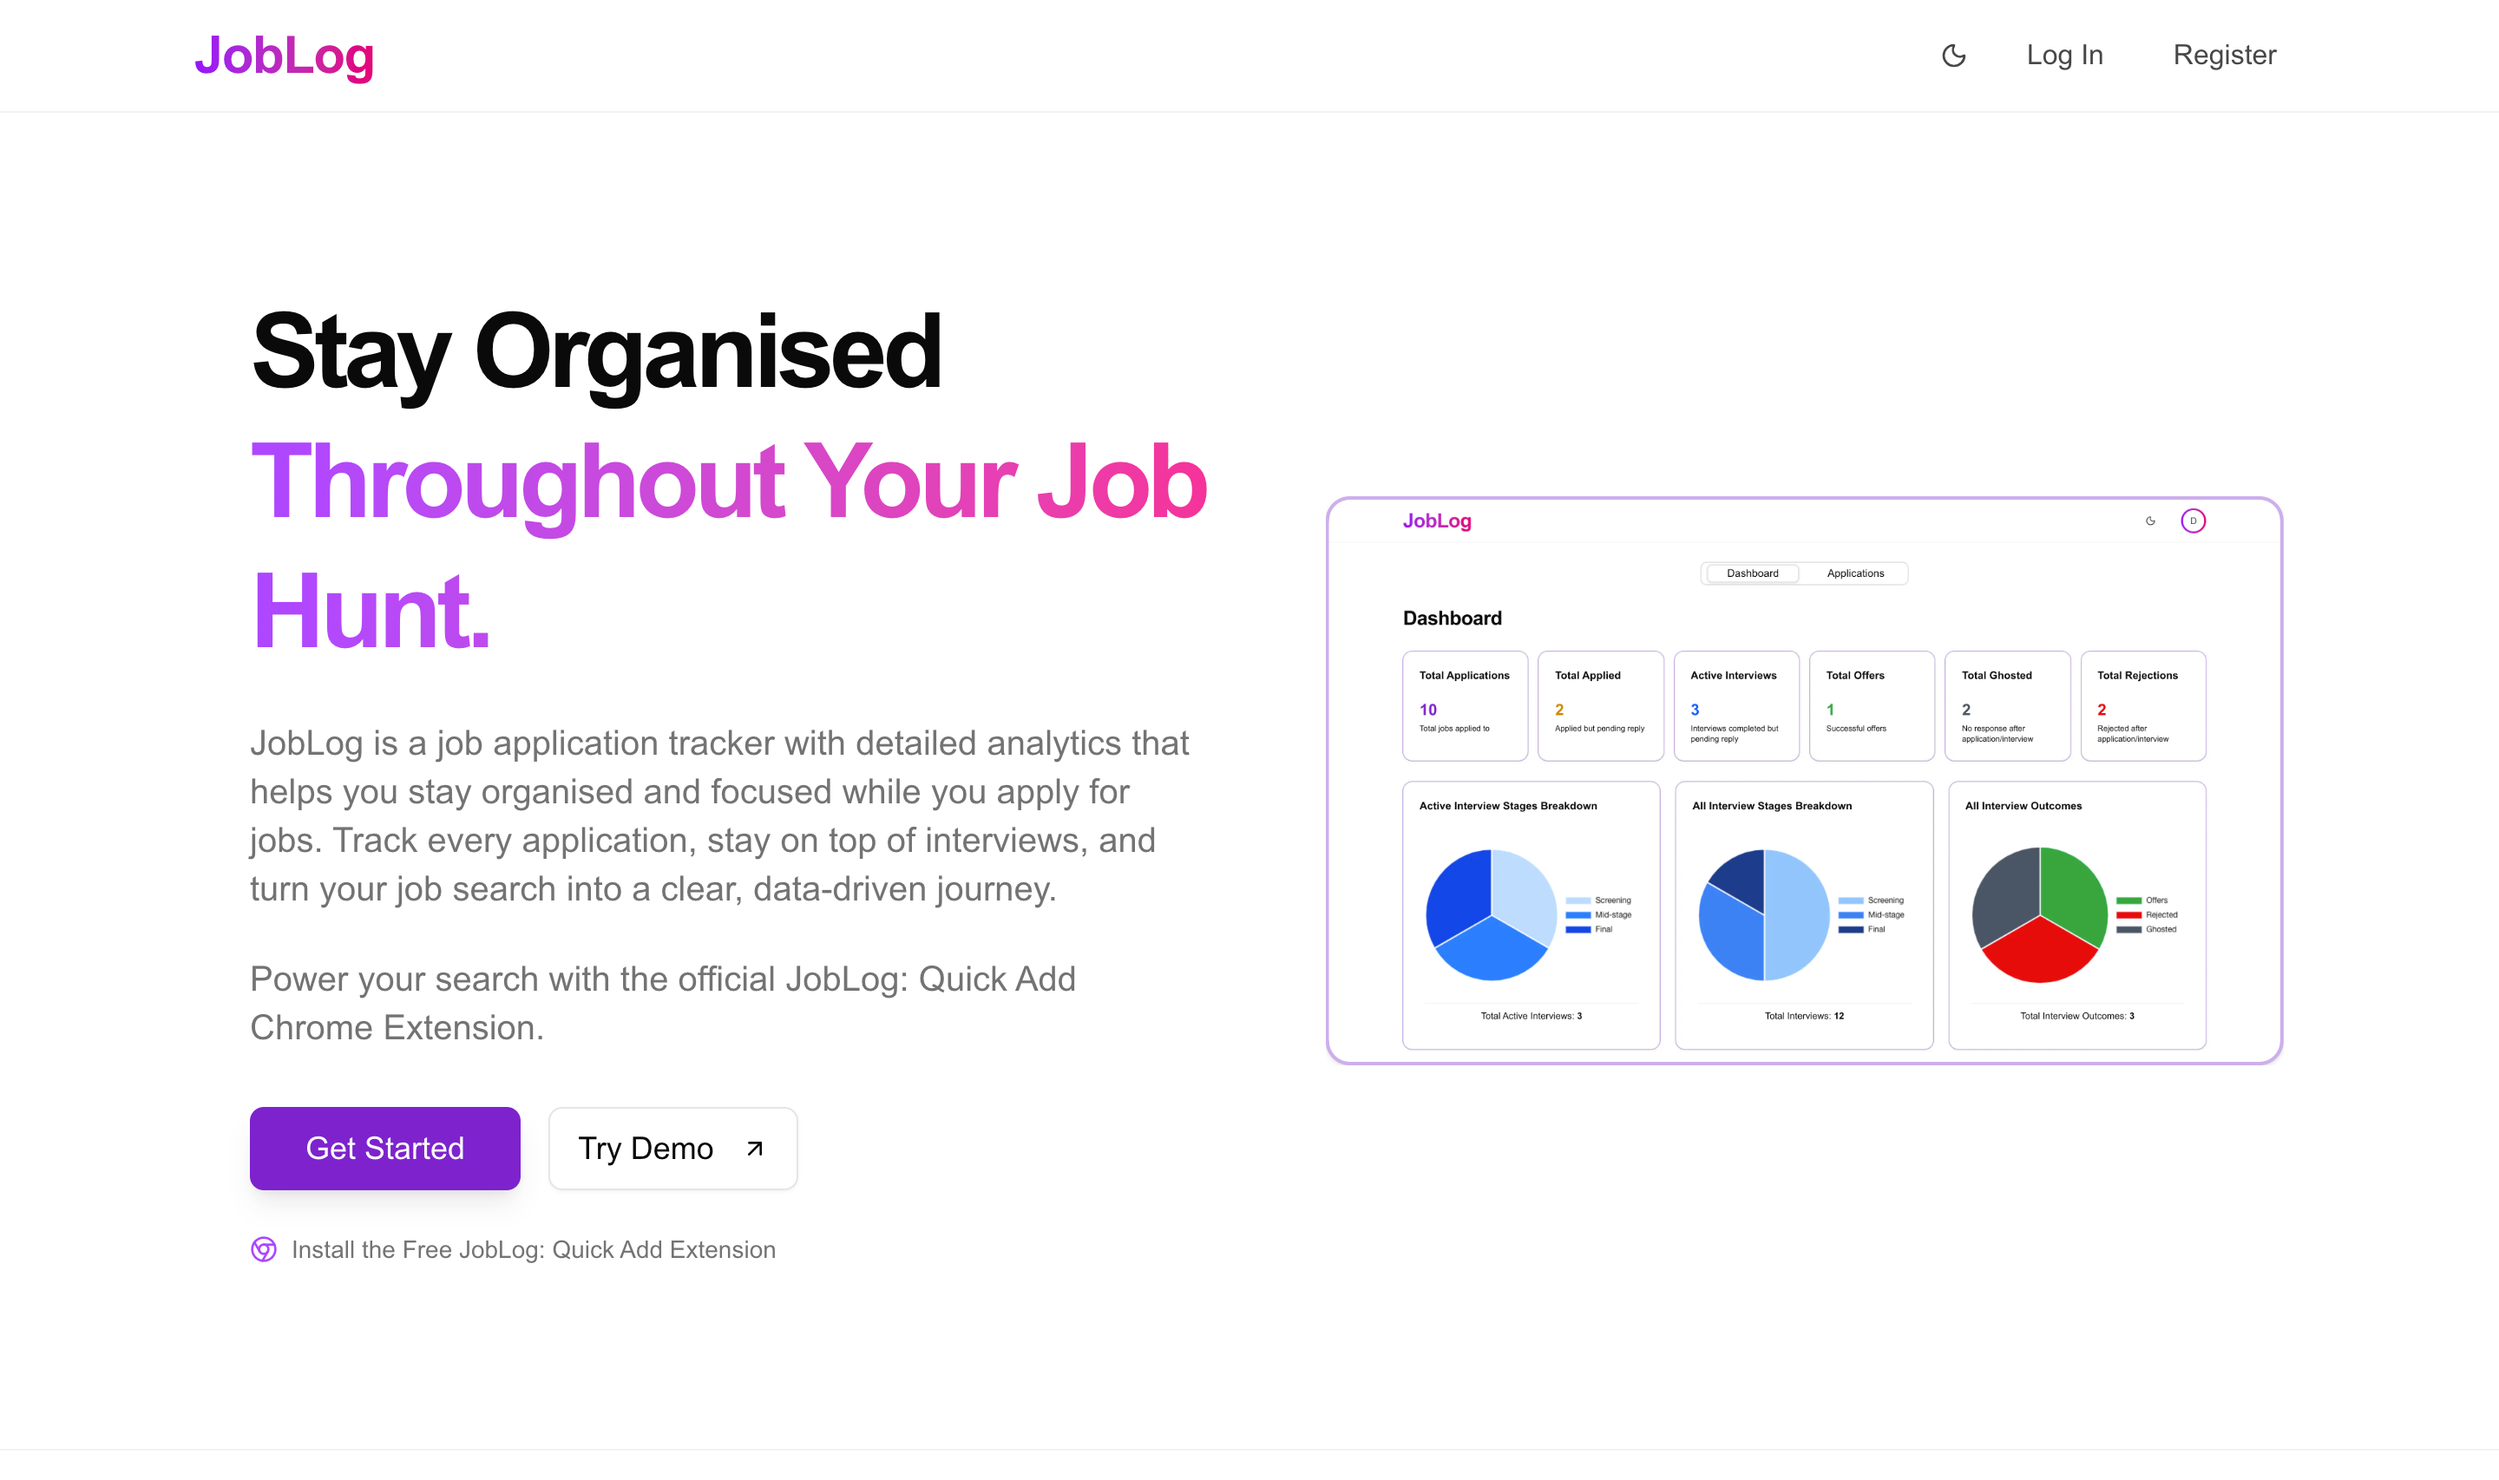
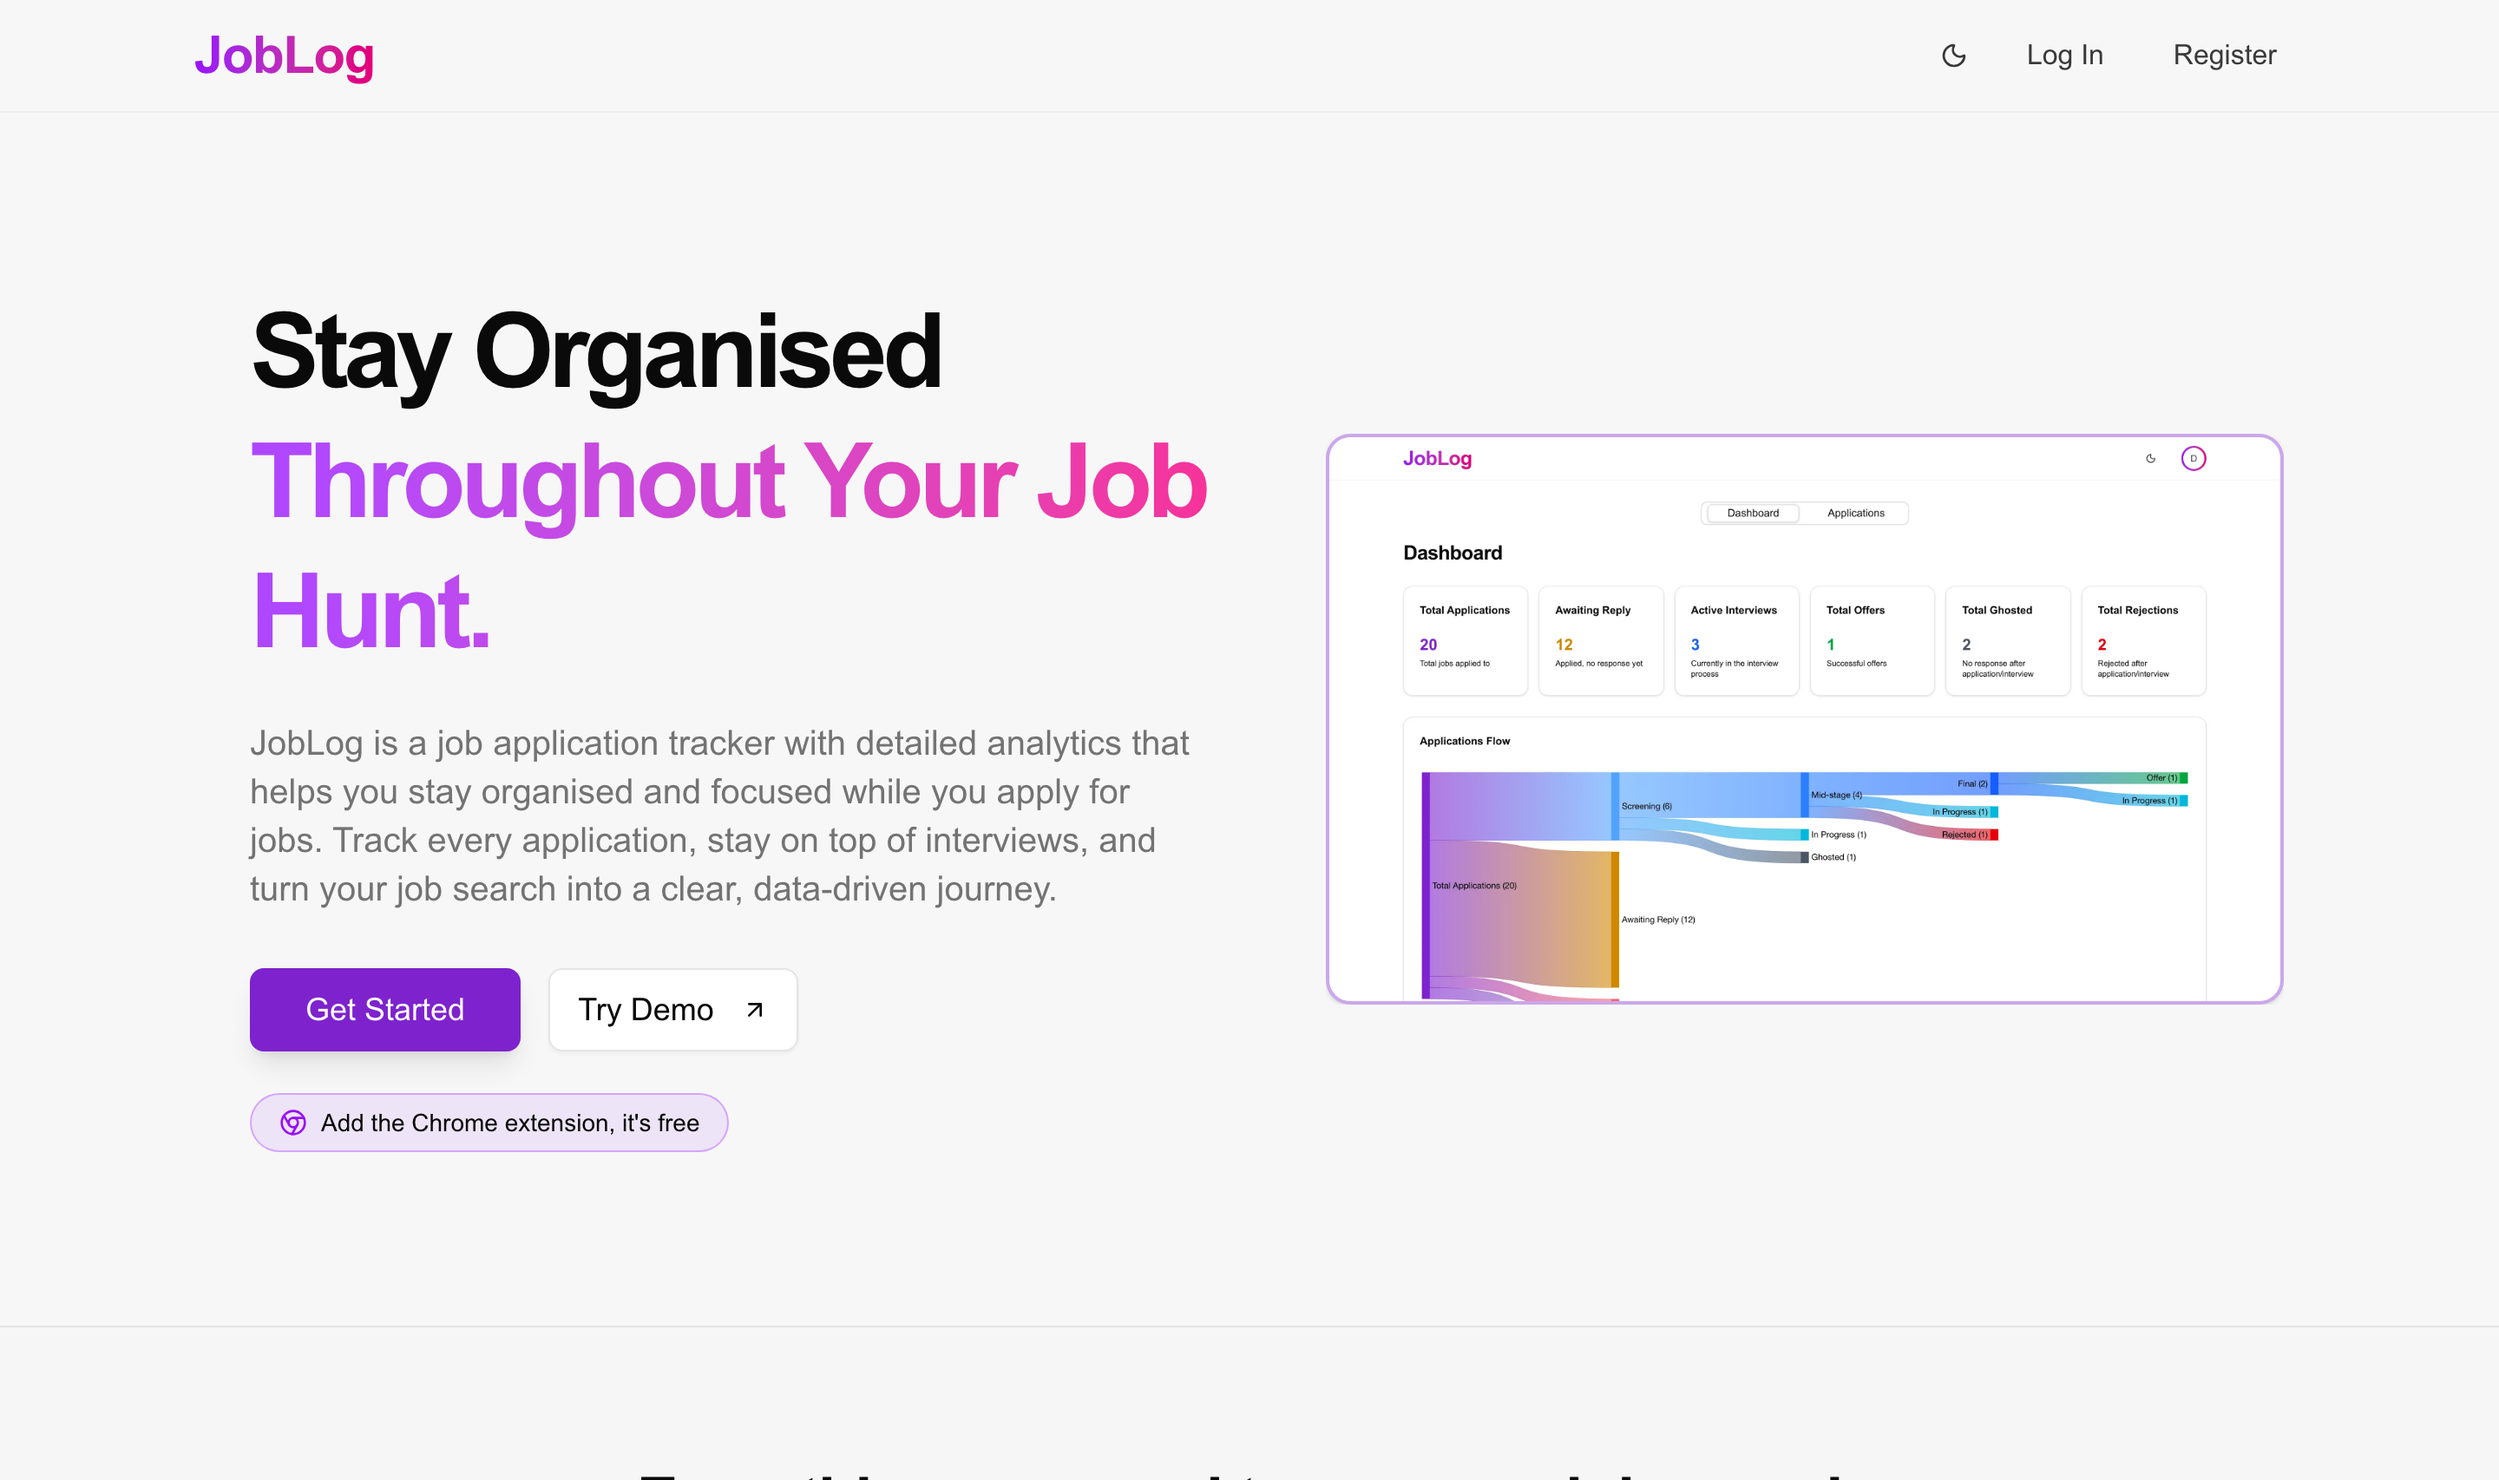
Updated about me + joblog section

diff --git a/src/components/AboutMeSection.tsx b/src/components/AboutMeSection.tsx
@@ -12,15 +12,15 @@ export function AboutMeSection() {
         <p>
           My foundation is built on hands-on experience, including an internship as a <span className="text-foreground">Software Development Intern at Woofya</span>. There, I contributed to a gamified PWA by implementing core features like onboarding and profile setup, integrating Firebase Auth and Directus APIs into a <span className="text-foreground">PHP codebase</span>. I&apos;m also particularly proud of <span className="text-foreground">TeachTeam</span>, a full-stack platform I built using <span className="text-foreground">React and Node.js</span> for managing university teaching teams, complete with secure, role-based dashboards and admin reporting.</p>
         <p>
-          Most recently, I completed <span className="text-foreground">JobLog</span>, a full-stack job application tracker and analytics dashboard built with <span className="text-foreground">C#, ASP.NET, PostgreSQL, and React/Next.js</span>. It helps users manage and analyse their job search journey with features like filtering, sorting, and trend visualisations powered by <span className="text-foreground">Chart.js</span>. Deployed via <span className="text-foreground">Vercel</span> and <span className="text-foreground">Azure Container Apps</span>, JobLog focuses on clarity, automation, and user experience. It also includes a <span className="text-foreground">Chrome browser extension</span> that automatically captures job listings and syncs them directly into the tracker.
+          Most recently, I built <span className="text-foreground">JobLog</span>, a full-stack job application tracker and analytics dashboard built with <span className="text-foreground">C#, ASP.NET Core, PostgreSQL and React/Next.js</span>, with a companion <span className="text-foreground">Chrome extension</span> that captures job listings in one click. I continue to actively maintain and improve it, shipping regular versioned releases deployed on <span className="text-foreground">Azure</span> and <span className="text-foreground">Vercel</span> through a tested, automated pipeline, with a focus on clarity, automation and user experience.
         </p>
 
         <p>
-          I&apos;m currently working as a <span className="text-foreground">Volunteer Software Engineer at Marra Community Hub</span>, contributing to a production volunteer management platform. I implement server-side logic in <span className="text-foreground">C#/.NET (ASP.NET Core)</span> and frontend features in <span className="text-foreground">React</span>, and write unit and integration tests with <span className="text-foreground">xUnit</span> against a Dockerised PostgreSQL instance within an established CI/CD pipeline. I collaborate through a <span className="text-foreground">PR-based Git workflow</span>, with all work reviewed and revised based on feedback, and use AI-assisted development tools like <span className="text-foreground">Claude Code</span> as part of the team&apos;s standard workflow.
+          I&apos;m currently working as a <span className="text-foreground">Volunteer Software Engineer at Marra Community Hub</span>, a charity with a volunteer management platform used in production. On the backend in <span className="text-foreground">C#/.NET (ASP.NET Core)</span>, I built volunteer archiving and waitlists for full events. I&apos;m also building the backend for a new <span className="text-foreground">business resource-sharing marketplace</span>, including listings, responses, bookmarks and availability settings. For that project I wrote API documentation for the frontend team and helped merge two database designs into one. I work through a <span className="text-foreground">PR-based Git workflow</span> where teammates review my work and I revise it based on their feedback, and the team uses <span className="text-foreground">Claude Code</span> as part of its everyday workflow.
         </p>
 
         <p>
-          I enjoy designing <span className="text-foreground">practical, user-centric tools</span> that streamline everyday challenges by transforming ideas into robust, scalable, and visually refined software products.
+          I like building tools people actually use, and I care about what happens after the first release: testing it, shipping it, and fixing and improving it based on feedback. I&apos;m looking to join a team where I can keep learning and contribute to software that people rely on.
         </p>
       </div>
 

diff --git a/src/components/ProjectsSection.tsx b/src/components/ProjectsSection.tsx
@@ -10,8 +10,8 @@ const projectsData = [
     title: "JobLog - Job Application Tracker with Analytics",
     image: "/images/joblog.png",
     lightImage: "/images/joblog_light.png",
-    description: "A modern, full-stack platform that helps users track and analyse their job applications across multiple platforms. Includes features like filtering, sorting, and searching applications; an analytics dashboard with key metrics showing outcomes and trends to help visualise your job hunting journey; and secure JWT-based authentication. Designed with dark and light modes and fully responsive across devices. Includes Chrome extension for automatic job data capture. Built with React, Next.js, shadcn/ui, and Chart.js on the frontend, and C#/.NET (ASP.NET) with a model-services-controllers architecture, Entity Framework Core, and PostgreSQL on the backend. Deployed using Docker containers on Azure Container Apps (backend), Neon (database), and Vercel (frontend).",
-    tech: ["React", "Next.js", "TypeScript", "shadcn/ui", "Chart.js", "C#/.NET (ASP.NET)", "Entity Framework Core", "PostgreSQL", "Docker", "Azure Container Apps", "Vercel"],
+    description: "A full-stack platform that helps users track and analyse their job applications across multiple job boards. Users can filter, sort and search applications, see each one's status history, and export everything to CSV. The analytics dashboard includes a Sankey chart that follows applications from applied to offer, a list of interviews and applications that need a follow-up, job board and response time insights, and daily trends. A companion Chrome extension captures job listings from LinkedIn, Seek and Indeed in one click, warns about duplicates and syncs live to the tracker. Security includes HttpOnly JWT cookies with sliding sessions, email verification, rate limiting and server-side validation, and a one-click demo creates a private sandbox account for each visitor. Designed with dark and light modes and fully responsive across devices. Built with React, Next.js, shadcn/ui and Chart.js on the frontend, and C#/.NET (ASP.NET Core) with a model-services-controllers architecture, Entity Framework Core and PostgreSQL on the backend, covered by 96 xUnit unit and integration tests. Deployed with Docker on Azure Container Apps (backend), Neon (database) and Vercel (frontend), with GitHub Actions running the tests and applying database migrations before every release. Actively maintained, with regular releases.",
+    tech: ["React", "Next.js", "TypeScript", "shadcn/ui", "Chart.js", "C#/.NET (ASP.NET Core)", "Entity Framework Core", "PostgreSQL", "xUnit", "Docker", "Azure Container Apps", "Neon", "Vercel", "GitHub Actions"],
     live: "https://joblog.athulthampan.com/",
     repo: "https://github.com/athul-tmp/JobLog"
   },
